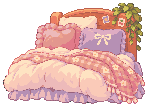
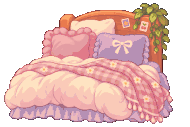
Stage 2: bigger bed and smoother, clearer bed, desk and rug cuts

diff --git a/src/main.js b/src/main.js
@@ -77,9 +77,9 @@ function drawSky() {
 
 // ---- layout (480x270 room pixels). Floor starts at y=234 (baseboard ends), back wall spans x=37..439. ----
 const LAYOUT = {
-  rug:  { img: rugImg,  x: 180, y: 234 },   // centred under the window, lies flat on the floor
+  rug:  { img: rugImg,  x: 118, y: 234 },   // centred under the window, lies flat on the floor
   desk: { img: deskImg, x: 40,  y: 140 },   // against the left wall; feet land at y~248, inside the floor band
-  bed:  { img: bedImg,  x: 292, y: 158 },   // against the right wall; skirt bottom at y~262
+  bed:  { img: bedImg,  x: 250, y: 136 },   // against the right wall; skirt bottom at y~262
 };
 
 // ---- viewport ----

diff --git a/tools/art_clean.py b/tools/art_clean.py
@@ -226,6 +226,7 @@ def main():
     ap.add_argument("--peel-light", type=float, help="peel up to 2px of very light edge fringe (sticker outline) with OKLab lightness above this, e.g. 0.88")
     ap.add_argument("--holes", type=float, default=0.0, help="--bg grow: also clear enclosed pixels this close (OKLab) to the background colour, e.g. 0.03")
     ap.add_argument("--shadow", help="hex colour of a painted wall shadow; those pixels become a soft translucent shadow that works on any wall")
+    ap.add_argument("--smooth", action="store_true", help="area-average downscale (smoother, finer detail) instead of block-mode; colours are still snapped to the palette")
     ap.add_argument("--keep-key", action="store_true", help="keep magenta as an opaque colour (window cutout mask)")
     ap.add_argument("--keep-noise", action="store_true")
     ap.add_argument("--name", help="output name, default = source file name")
@@ -259,7 +260,18 @@ def main():
 
     out_w = a.width or max(1, round(img.size[0] * a.scale))
     out_h = a.height or round(img.size[1] * out_w / img.size[0])
-    q = downscale(idx, opaque, out_w, out_h)
+    if a.smooth:
+        # average the source colours per output pixel (keeps fine detail and soft shading), then snap to the palette
+        avg = np.array(Image.fromarray(rgb).resize((out_w, out_h), Image.Resampling.BOX))
+        ai, _ad = nearest(to_oklab(avg.reshape(-1, 3).astype(float)), lab_pal)
+        q = ai.reshape(out_h, out_w).astype(np.int32)
+        cov = np.array(Image.fromarray((opaque * 255).astype(np.uint8)).resize((out_w, out_h), Image.Resampling.BOX)) > 127
+        q[~cov] = -1
+        if a.keep_key:
+            kk = np.array(Image.fromarray((is_key * 255).astype(np.uint8)).resize((out_w, out_h), Image.Resampling.BOX)) > 127
+            q[kk & cov] = key_i
+    else:
+        q = downscale(idx, opaque, out_w, out_h)
     if a.bg == "grow":
         small = np.array(Image.fromarray(rgb).resize((out_w, out_h), Image.Resampling.BOX))
         q[grow_mask(small, halo=a.halo, hole_tol=a.holes)] = -1

diff --git a/tools/art_build.py b/tools/art_build.py
@@ -32,7 +32,7 @@ shutil.copy(SRC / "sunbeams-v1.png", OUT / "sunbeams.png")
 
 # ---- furniture layers (Stage 2) ----
 from PIL import ImageOps
-desk = Image.open(SRC / "desk-v1.png").convert("RGBA")
+desk = Image.open(SRC / "desk-v2.png").convert("RGBA")
 import colorsys
 da = np.array(desk)
 for y in range(desk.height):
@@ -53,5 +53,5 @@ desk = Image.fromarray(da)
 body = desk.crop((0, 41, desk.width, desk.height))          # below the wall shelf, which is placed separately
 body = ImageOps.mirror(body)                                 # lamp ends up on the left, clear of the window
 body.save(OUT / "desk-body.png")
-shutil.copy(SRC / "bed-v2.png", OUT / "bed.png")
-shutil.copy(SRC / "rug-v2.png", OUT / "rug.png")
+shutil.copy(SRC / "bed-v3.png", OUT / "bed.png")
+shutil.copy(SRC / "rug-v3.png", OUT / "rug.png")

diff --git a/art/README.md b/art/README.md
@@ -147,3 +147,4 @@ so it sits against the right side of the room.
 - **shell-flat-v1** (ChatGPT, neutral lighting): the new permanent room shell (flat, no baked light), replacing room-shell-v1. 38 colours added to the palette (now 118) so the wall gradient stays smooth. The sunlit and twilight variants (shell-sunlit-v1, shell-twilight-v1) are not pixel-aligned with it (the window frame shifts about 5px), so they are not used. Day and night lighting is done in code.
 - **sunbeams-v1** (ChatGPT, light on black): converted to an alpha layer (art/layers/sunbeams-v1.png, 480x270). The game fades it by time of day and warms it near sunrise/sunset. Not palette-snapped (it is a light overlay).
 - **Stage 2 layout** (src/main.js LAYOUT): rug at (180,234) 120x34 (re-cut from the raw rug, aspect 3.5), desk body mirrored at (40,140) with the wall shelf, frames, lilac shadow and floor shadow cut away, bed at (292,158). Floor band is y=234..270, back wall x=37..439.
+- **Stage 2 v2**: bed-v3 (190x127), desk-v2 and rug-v3 (130x38) re-cut with the new --smooth mode (area-average downscale, palette snap), clearer and finer than the block-mode cuts. Bed at (250,136), rug at (118,234).
